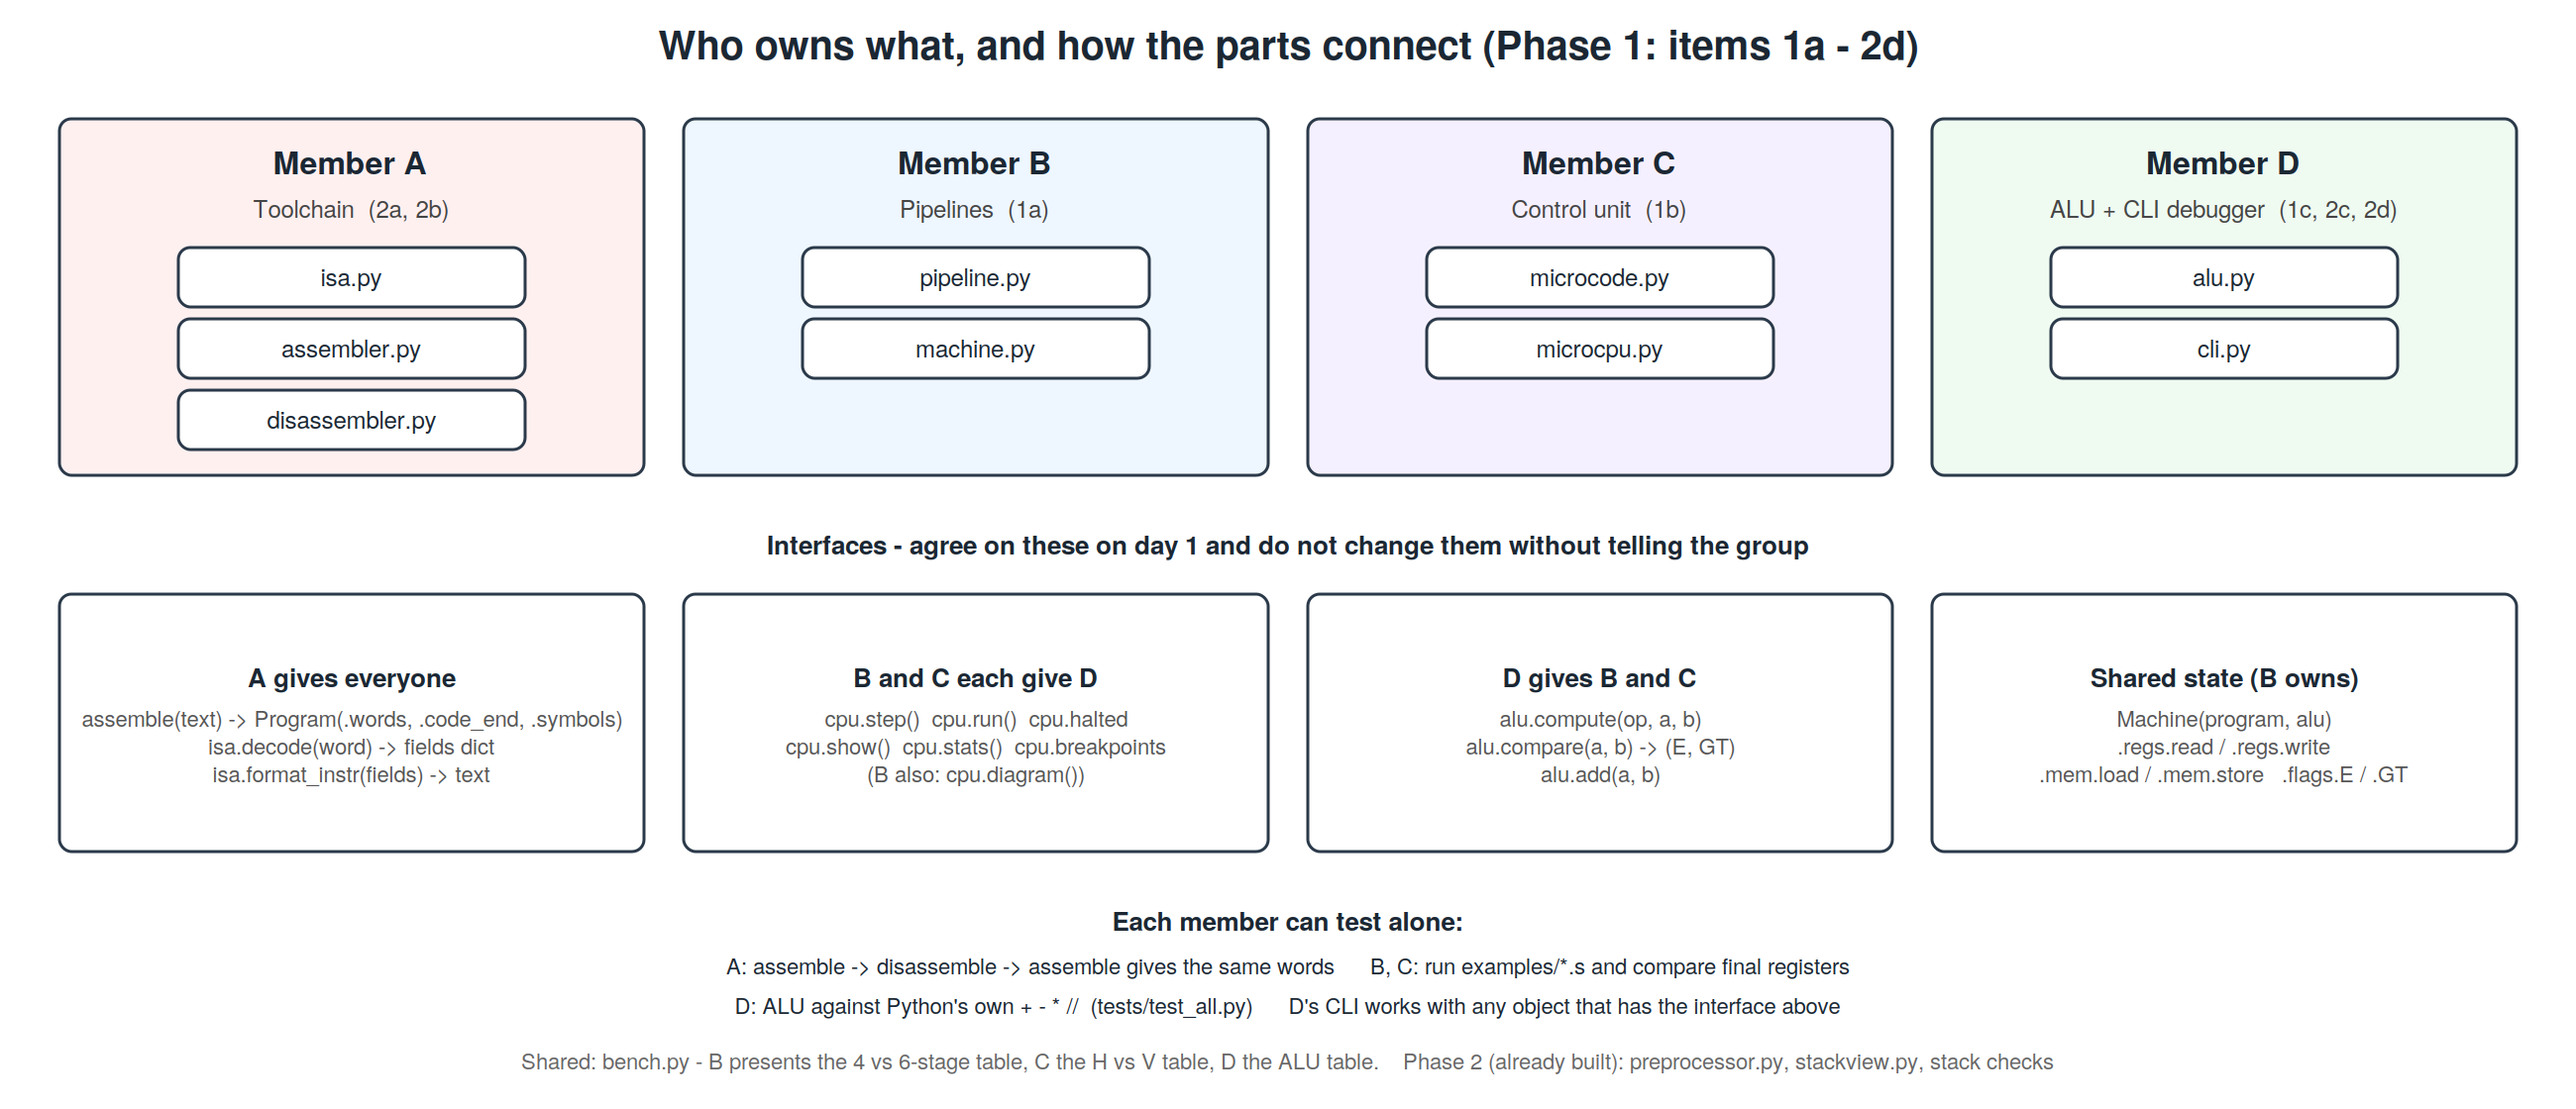
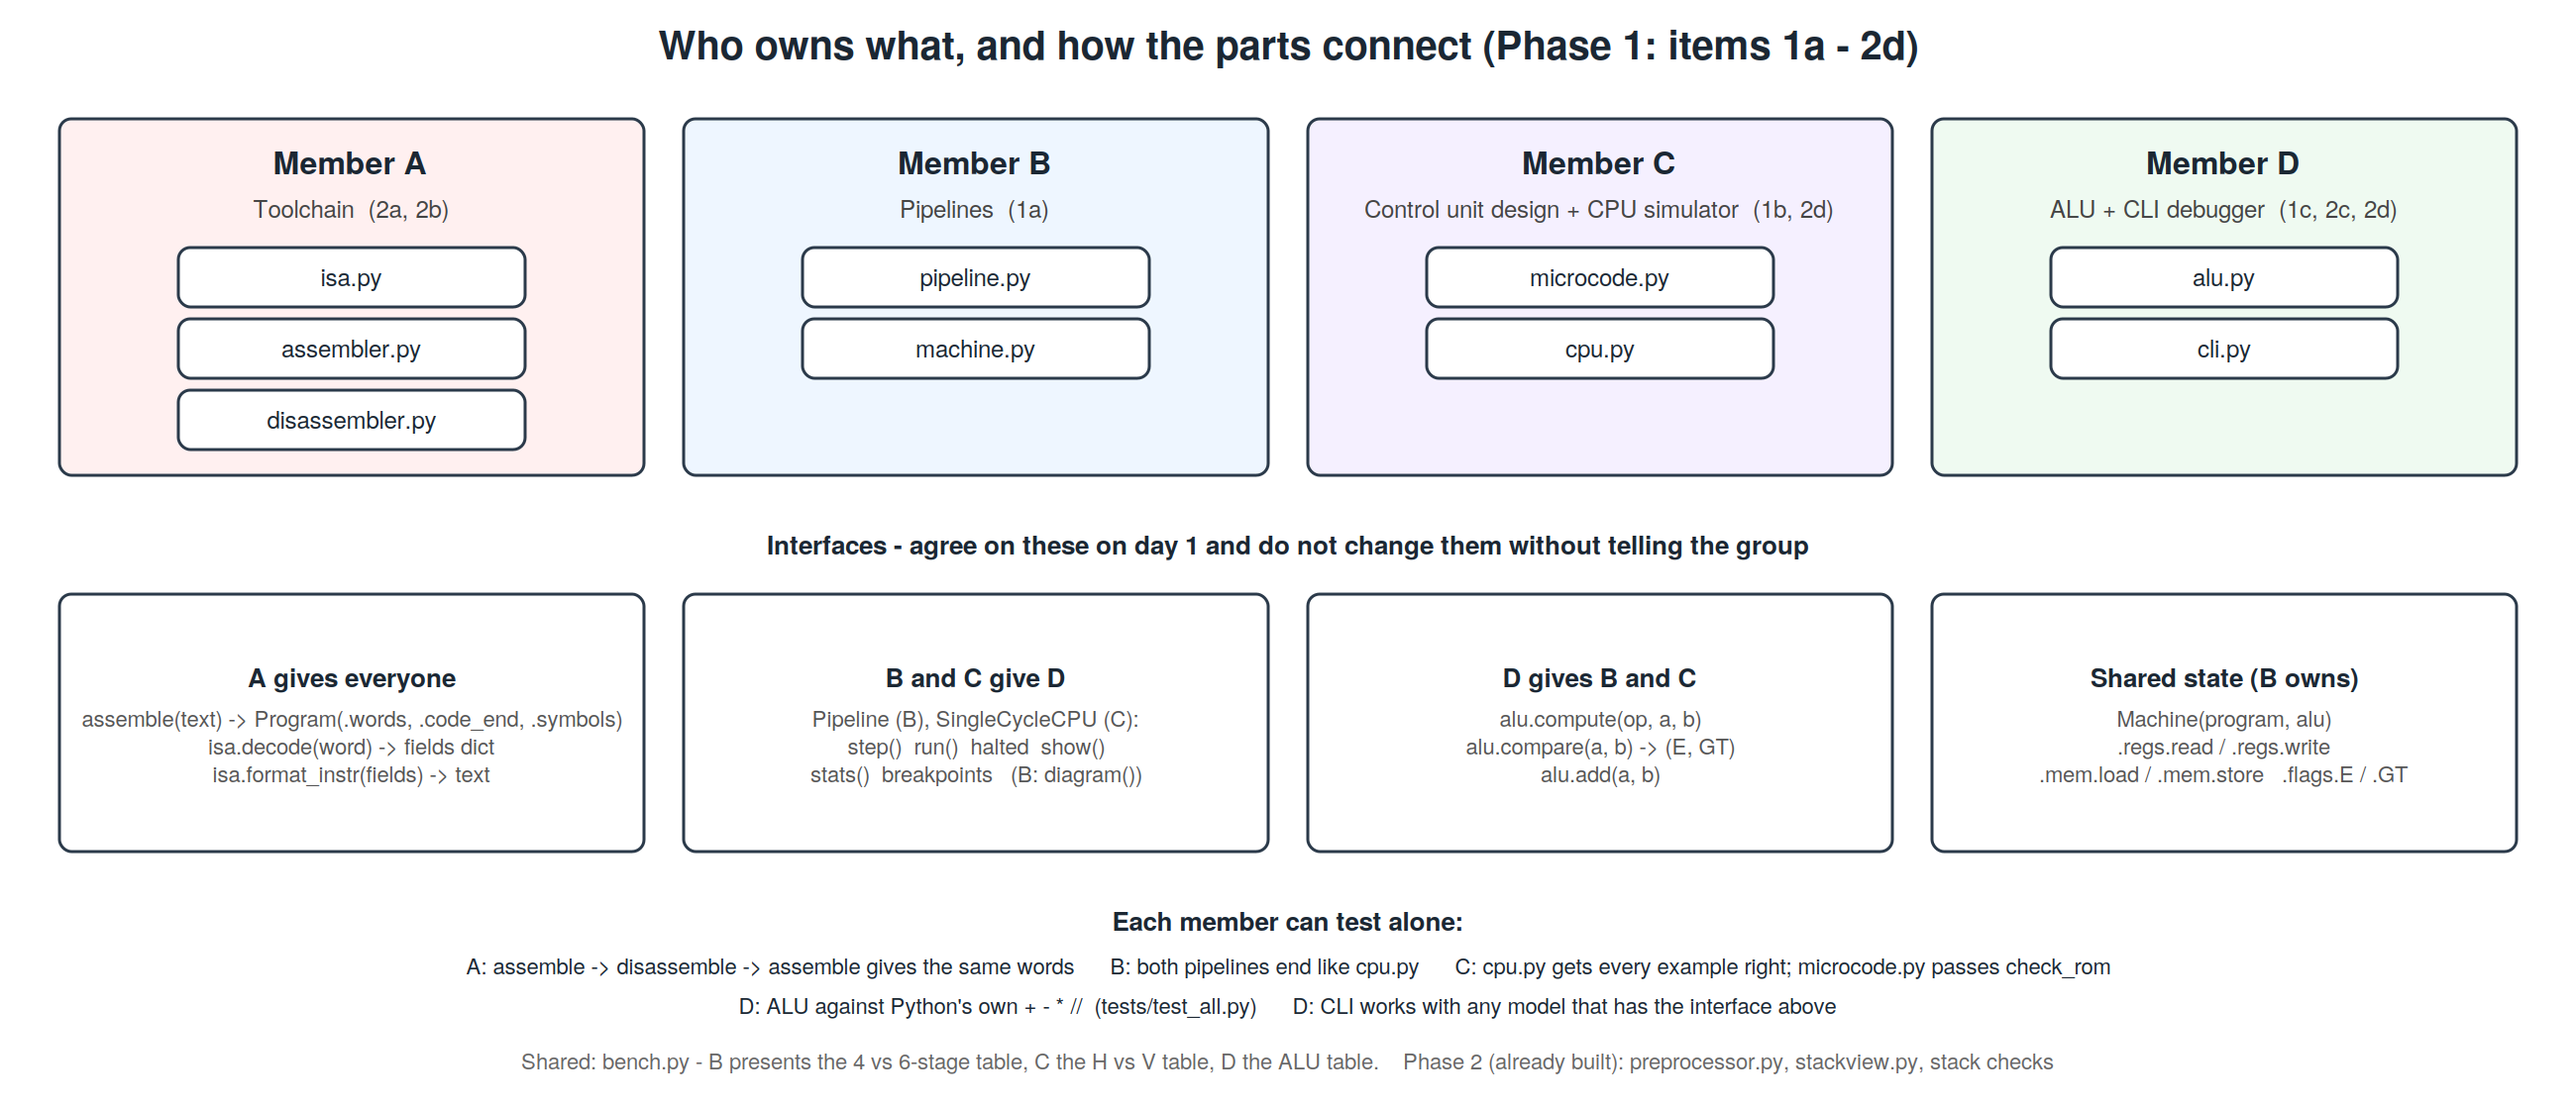
refactoring

diff --git a/risc201/cli.py b/risc201/cli.py
@@ -2,6 +2,7 @@
 cli.py - interactive simulator and debugger for RISC201 (Member D)
 
     python cli.py examples/fact.s                     6-stage pipeline (default)
+    python cli.py examples/fact.s --mode single       single-cycle CPU, one instruction per step
     python cli.py examples/fact.s --mode pipe4        4-stage pipeline
     python cli.py examples/fact.s --mode horizontal   microprogrammed, horizontal
     python cli.py examples/fact.s --mode vertical     microprogrammed, vertical
@@ -23,15 +24,18 @@ from exceptions import RiscError
 from machine import Machine, load_file
 from microcpu import MicroCPU
 from pipeline import Pipeline
+from cpu import SingleCycleCPU
 import stackview
 
-MODES = ('pipe4', 'pipe6', 'horizontal', 'vertical')
+MODES = ('single', 'pipe4', 'pipe6', 'horizontal', 'vertical')
 
 
 def build(path, mode, alu_opts, guard):
     prog = load_file(path)
     machine = Machine(prog, alu=ALU(**alu_opts), guard=guard)
-    if mode.startswith('pipe'):
+    if mode == 'single':
+        cpu = SingleCycleCPU(machine)
+    elif mode.startswith('pipe'):
         cpu = Pipeline(machine, int(mode[-1]))
     else:
         cpu = MicroCPU(machine, mode)
@@ -65,6 +69,10 @@ class Debugger(cmd.Cmd):
     @property
     def is_pipe(self):
         return self.mode.startswith('pipe')
+
+    @property
+    def is_single(self):
+        return self.mode == 'single'
 
     def current_pc(self):
         return self.cpu.pc
@@ -118,7 +126,9 @@ class Debugger(cmd.Cmd):
                 return
             if not self.guarded(self.cpu.step):
                 return
-            if not self.is_pipe:
+            if self.is_single:
+                print(self.cpu.show())
+            elif not self.is_pipe:
                 print(self.cpu.format_step(self.cpu.trace[-1]))
         if self.is_pipe:
             print(self.cpu.show())
@@ -130,7 +140,10 @@ class Debugger(cmd.Cmd):
         """next - finish exactly one more instruction"""
         if not self.ready():
             return
-        if self.is_pipe:
+        if self.is_single:
+            if self.guarded(self.cpu.step):
+                print(self.cpu.show())
+        elif self.is_pipe:
             target = self.cpu.retired + 1
             while self.cpu.retired < target and not self.cpu.halted:
                 if not self.guarded(self.cpu.step):
@@ -280,7 +293,7 @@ class Debugger(cmd.Cmd):
 
     def do_ucode(self, arg):
         """ucode - print the control memory (microprogrammed modes)"""
-        if self.is_pipe:
+        if self.is_pipe or self.is_single:
             print("ucode is for the horizontal / vertical modes")
             return
         print(self.cpu.cm.listing())
@@ -296,6 +309,8 @@ class Debugger(cmd.Cmd):
             for name, ins in self.cpu.slot.items():
                 if ins:
                     marks.setdefault(ins['pc'], []).append(name)
+        elif self.is_single:
+            marks[self.cpu.pc] = ['<- next']
         else:
             marks[self.cpu.instr_pc] = ['<-']
         for a in range(0, self.machine.code_end, 4):

diff --git a/risc201/bench.py b/risc201/bench.py
@@ -19,6 +19,7 @@ from alu import ALU
 from machine import Machine, load_file
 from microcpu import MicroCPU
 from pipeline import Pipeline
+from cpu import SingleCycleCPU
 
 PROGRAMS = ['sum', 'fact', 'hazard', 'muldiv', 'bubble']
 
@@ -38,7 +39,12 @@ PERIOD = {
 
 def run(name, mode, **alu_opts):
     m = Machine(load_file(f'examples/{name}.s'), alu=ALU(**alu_opts))
-    cpu = Pipeline(m, int(mode[-1])) if mode.startswith('pipe') else MicroCPU(m, mode)
+    if mode == 'single':
+        cpu = SingleCycleCPU(m)
+    elif mode.startswith('pipe'):
+        cpu = Pipeline(m, int(mode[-1]))
+    else:
+        cpu = MicroCPU(m, mode)
     cpu.run()
     return m, cpu
 
@@ -125,7 +131,7 @@ def main():
     ok = True
     for p in PROGRAMS:
         states = set()
-        for mode in ('pipe4', 'pipe6', 'horizontal', 'vertical'):
+        for mode in ('single', 'pipe4', 'pipe6', 'horizontal', 'vertical'):
             for opts in ({'adder': 'ripple', 'multiplier': 'shiftadd', 'divider': 'restoring'},
                          {'adder': 'cla', 'multiplier': 'booth', 'divider': 'nonrestoring'}):
                 m, cpu = run(p, mode, **opts)

diff --git a/risc201/tests/test_all.py b/risc201/tests/test_all.py
@@ -20,13 +20,16 @@ from machine import Machine, load_file
 from microcode import check_rom
 from microcpu import MicroCPU
 from pipeline import Pipeline
+from cpu import SingleCycleCPU
 from preprocessor import expand_macros
 
-MODES = ('pipe4', 'pipe6', 'horizontal', 'vertical')
+MODES = ('single', 'pipe4', 'pipe6', 'horizontal', 'vertical')
 EXAMPLES = ['sum', 'fact', 'hazard', 'muldiv', 'bubble']
 
 
 def make_cpu(machine, mode):
+    if mode == 'single':
+        return SingleCycleCPU(machine)
     if mode.startswith('pipe'):
         return Pipeline(machine, int(mode[-1]))
     return MicroCPU(machine, mode)
@@ -166,6 +169,12 @@ def test_wrong_path_fetch_is_harmless():
     """The fetch after the final branch goes past the code; it must be
     flushed, not reported as an error."""
     run_source("b end\nend: hlt", 'pipe6')
+
+
+def test_single_cycle_cpi():
+    """single-cycle: exactly one cycle per instruction."""
+    m, cpu = run_source(open('examples/sum.s').read(), 'single')
+    assert cpu.cycle == cpu.retired == 64
 
 
 def test_microcode_checker():

diff --git a/risc201/exceptions.py b/risc201/exceptions.py
@@ -1,5 +1,5 @@
 """
-exceptions.py - runtime exceptions of the RISC201 machine (Member D)
+exceptions.py - runtime exceptions of the RISC201 machine (Phase 2 - owner not assigned yet)
 
 When the simulated program does something illegal, the simulator raises
 one of these. The CLI catches it, stops, and shows where it happened.

diff --git a/risc201/machine.py b/risc201/machine.py
@@ -1,6 +1,6 @@
 """
 machine.py - the architectural state that every processor model shares
-(Member D owns memory + stack guard, Member B owns the register file)
+(Member B owns this file; the stack-guard checks inside it are Phase 2)
 
     Machine
       .regs    RegisterFile   16 x 32-bit, writes to sp are checked

diff --git a/risc201/stackview.py b/risc201/stackview.py
@@ -1,5 +1,5 @@
 """
-stackview.py - ASCII picture of the stack (Member D)
+stackview.py - ASCII picture of the stack (Phase 2 - owner not assigned yet)
 
 Draws memory from the stack base (top of the picture, high addresses)
 down to sp (bottom), because our stack is full descending: pushes move

diff --git a/risc201/cpu.py b/risc201/cpu.py
@@ -1,5 +1,5 @@
 """
-cpu.py - single-cycle CPU execution simulator (Member D)
+cpu.py - single-cycle CPU execution simulator (Member C)
 
 The simplest possible processor: one call to step() runs ONE whole
 instruction, start to finish, before the next one begins. No pipeline,

diff --git a/risc201/preprocessor.py b/risc201/preprocessor.py
@@ -1,5 +1,5 @@
 """
-preprocessor.py - stack macros (Member D)
+preprocessor.py - stack macros (Phase 2 - owner not assigned yet)
 
 Runs BEFORE the assembler. It rewrites two macros into real instructions.
 

diff --git a/risc201/README.md b/risc201/README.md
@@ -10,6 +10,7 @@ The ISA follows **SimpleRisc** (Sarangi, Ch. 3). Plain Python 3, no libraries ne
 python tests/test_all.py                              # 13 tests, all should pass
 python bench.py                                       # full evaluation tables
 python cli.py examples/fact.s                         # debugger, 6-stage pipeline
+python cli.py examples/fact.s --mode single           # single-cycle CPU
 python cli.py examples/sum.s --mode horizontal        # microprogrammed CPU
 python assembler.py examples/fact.s -l fact.lst       # -> fact.hex + listing
 python disassembler.py examples/fact.hex
@@ -21,8 +22,8 @@ python disassembler.py examples/fact.hex
 |---|---|---|---|
 | A | 2a, 2b (+ ISA design) | `isa.py`, `assembler.py`, `disassembler.py` | `instruction_formats` |
 | B | 1a | `pipeline.py`, `machine.py` | `pipeline_4stage`, `pipeline_6stage` |
-| C | 1b | `microcode.py`, `microcpu.py` | `control_unit` |
-| D | 1c, 2c, 2d | `alu.py`, `cli.py` | `alu` |
+| C | 1b, 2d (CPU simulator) | `microcode.py` (design: formats + microprograms), `cpu.py`; `microcpu.py` runs microcode = item 3, later | `control_unit` |
+| D | 1c, 2c, 2d (debugger) | `alu.py`, `cli.py` | `alu` |
 
 `bench.py` is shared: B presents the 4 vs 6-stage table, C the horizontal vs vertical table, D the ALU table.
 Interfaces between the parts are in `docs/diagrams/ownership.png`.
@@ -38,7 +39,7 @@ Phase 2 (already built, not presented yet): `preprocessor.py`, `stackview.py`, s
 | 1c ALU | `alu.py`, DESIGN.md §3, `alu` diagram |
 | 2a two-pass assembler → hex/binary | `assembler.py` |
 | 2b disassembler | `disassembler.py` |
-| 2c/2d CLI simulator + step debugger | `cli.py` |
+| 2c/2d CLI simulator + step debugger | `cpu.py` (single-cycle simulator, C), `cli.py` (D) |
 | 2e push/pop macro preprocessor (full descending) | `preprocessor.py` |
 | 2f stack bounds checks + runtime exceptions | `machine.py`, `exceptions.py` |
 | 2g ASCII stack visualizer | `stackview.py` (`stack` command) |
@@ -66,13 +67,13 @@ Phase 2 (already built, not presented yet): `preprocessor.py`, `stackview.py`, s
 | `stats` | cycles, CPI, stalls, flushes, ALU work |
 | `reset`, `quit` | |
 
-Options: `--mode pipe4|pipe6|horizontal|vertical`, `--adder ripple|cla`, `--mul shiftadd|booth`, `--div restoring|nonrestoring`, `--no-guard`, `--run`.
+Options: `--mode single|pipe4|pipe6|horizontal|vertical`, `--adder ripple|cla`, `--mul shiftadd|booth`, `--div restoring|nonrestoring`, `--no-guard`, `--run`.
 
 ## 5-minute demo script
 
 1. **A:** `python assembler.py examples/fact.s -l fact.lst` → show listing, then `python disassembler.py examples/fact.hex`.
 2. **B:** `python cli.py examples/hazard.s --mode pipe6` → `step 10`, `diag`. Same with `--mode pipe4`: no stall, one fewer flush.
-3. **C:** `python cli.py examples/sum.s --mode vertical` → `ucode`, `next`, `next` (microPC trace). Mention horizontal's numbers.
+3. **C:** `python cli.py examples/fact.s --mode single` → `step 5`. Then `python microcode.py` → both control memories; explain one instruction in H vs V.
 4. **D:** `python cli.py examples/sum.s --mode pipe4` → `watch r1`, `c`, `regs`, `mem array 4`. Then `muldiv.s --run` with `--mul shiftadd` vs `--mul booth`.
 5. Each member shows their table from `python bench.py`.
 

diff --git a/risc201/docs/VIVA.md b/risc201/docs/VIVA.md
@@ -50,15 +50,15 @@ Each member should be able to (1) explain their part in ~1 minute, (2) run its d
 
 ---
 
-## Member C — microprogrammed control unit (1b)
+## Member C — control unit design + single-cycle CPU (1b, 2d simulator)
 
-**Files:** `microcode.py`, `microcpu.py`
+**Files:** `microcode.py`, `cpu.py` (`microcpu.py` = item 3, later)
 **Diagram:** `control_unit`
-**Code to know cold:** `ControlMemory.encode` / `decode`, `MicroCPU.micro_step`, `next_upc`, `perform`
+**Code to know cold:** `SingleCycleCPU.step` (fetch, decode, execute, memory, write back), `ControlMemory.encode` / `decode`, `check_rom`, the `HORIZONTAL` / `VERTICAL` tables
 
 **1-minute pitch:** This CPU has no hardwired control. Each cycle it reads one microinstruction from control memory at microPC, turns on its control signals and computes the next microPC. Opcodes are only used by DISPATCH to jump to a routine. Horizontal words have one bit per signal (wide, fast); vertical words hold one encoded micro-op (narrow, slower, needs a decoder).
 
-**Demo:** `python cli.py examples/sum.s --mode horizontal`, then `ucode`, `step 10`, `next`. Repeat with `--mode vertical`.
+**Demo:** `python cli.py examples/fact.s --mode single`, then `step 5` (each line shows what changed). Then `python microcode.py` for both control memories.
 
 **Likely questions**
 
@@ -71,10 +71,12 @@ Each member should be able to (1) explain their part in ~1 minute, (2) run its d
 | Why can RA_LINK and PC_BRANCH share a word? | RA_LINK reads the old PC, PC_BRANCH writes the new one — same edge, no conflict. |
 | How do mov/not reuse the ALU routine? | MOVNOT loads B then JUMPs to ALU_GO. |
 | What raises an exception? | Unknown opcode at DISPATCH, microPC outside the ROM. |
+| What is the single-cycle CPU for? | One whole instruction per step, no overlap: the simplest correct model. The pipelines and microcode must end in the same state as it. |
+| Why is its CPI exactly 1? | Every instruction takes one (long) cycle; the clock period must fit the slowest instruction (ld: fetch + decode + ALU + memory + write back). |
 
 ---
 
-## Member D — ALU + CLI debugger (1c, 2c, 2d)
+## Member D — ALU + CLI debugger (1c, 2c, 2d debugger)
 
 **Files:** `alu.py`, `cli.py`
 **Diagram:** `alu`
